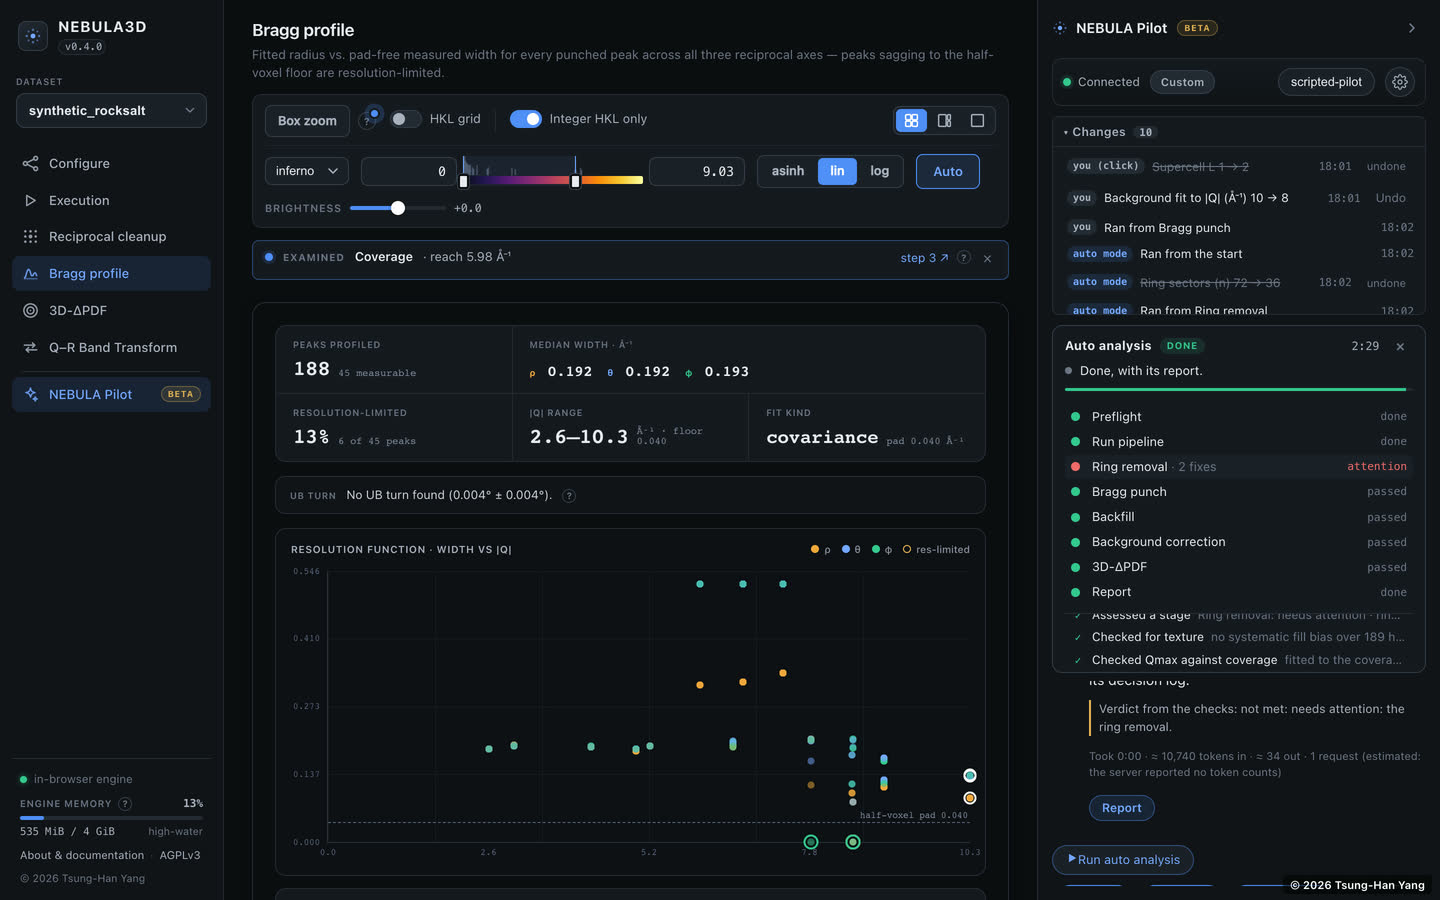
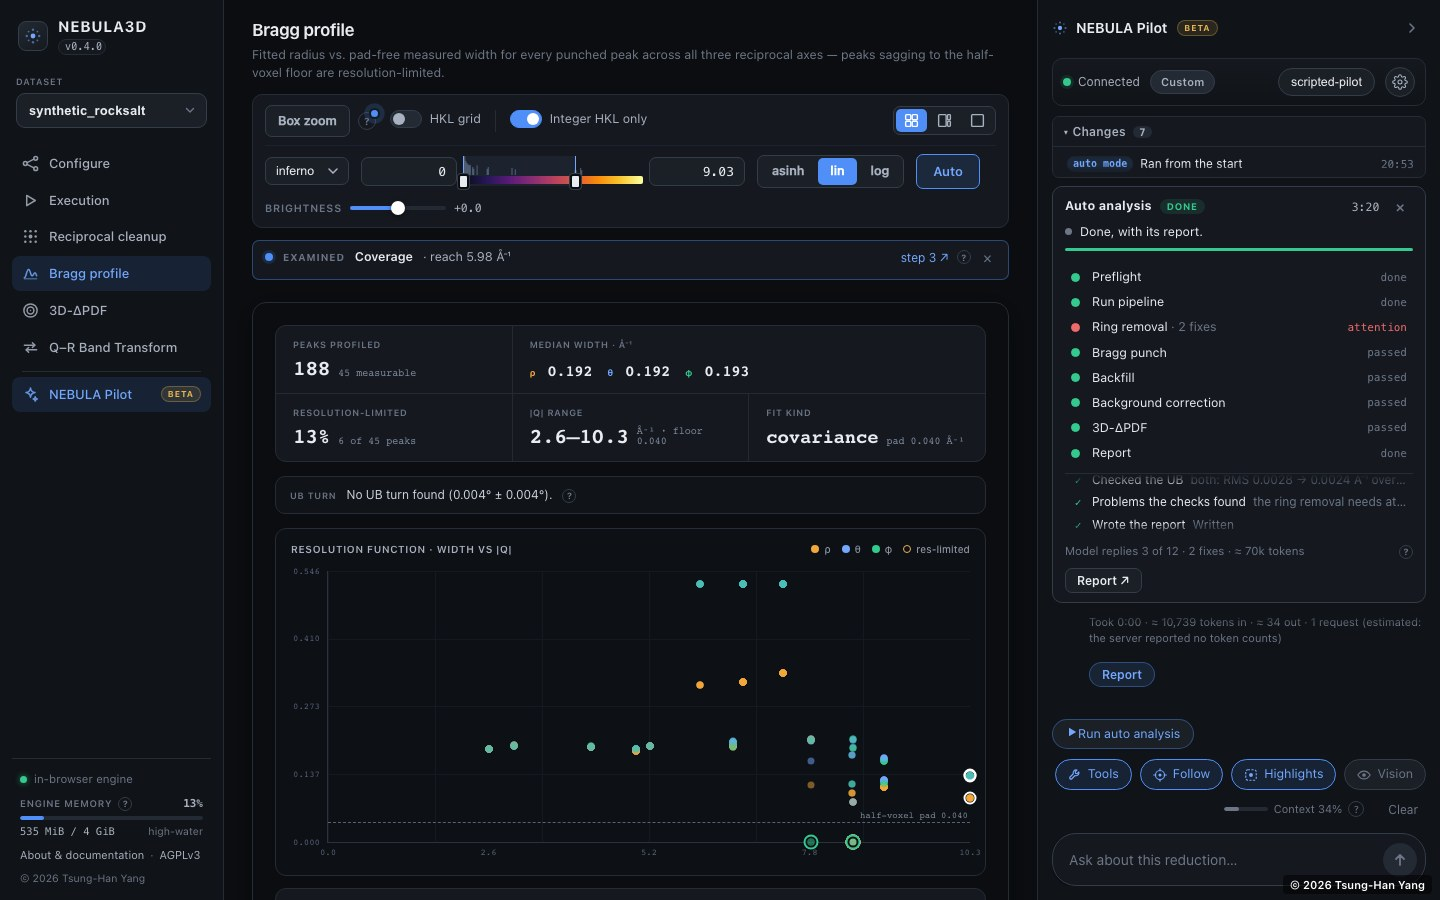
Retake the Pilot's auto and context-meter shots; the Auto head wraps
pilot-auto-done.jpg (1440 x 900, auto done: the plan and the activity log),
pilot-auto-phone.jpg (390 x 844, paused: the Now line, the last three steps,
Resume and Stop) and pilot-context-meter.jpg (the meter red at 91 % with one
action, nothing over the panel): the synthetic demo in the browser build with
the scripted model, the copyright line on each. The meter caption now says
91 %.

On a narrow panel (1280 px window) the Auto panel's Pause / Resume and Stop
go to a line of their own instead of out of view. docs/web.md describes the
panel's layout and the layout check.

diff --git a/web/src/index.css b/web/src/index.css
@@ -8289,8 +8289,9 @@ html.kb-open .ai-side {
 }
 .auto-head {
   display: flex;
+  flex-wrap: wrap; /* a narrow panel: Pause / Resume and Stop go to a line of their own, not out of view */
   align-items: center;
-  gap: 8px;
+  gap: 6px 8px;
 }
 .auto-title {
   white-space: nowrap;
@@ -8684,9 +8685,6 @@ html.kb-open .ai-side {
   overflow: visible;
   -webkit-mask-image: none;
   mask-image: none;
-}
-.ai-side[data-mode="sheet"] .auto-head {
-  flex-wrap: wrap;
 }
 .auto-refused {
   align-self: center;

diff --git a/docs/web.md b/docs/web.md
@@ -476,6 +476,27 @@ side by side on a wide card, and on a narrow one a stage's one-line summary
 moves under its title. The Configure preview answers to its card's width too:
 its three planes side by side from 1100 px, tabs below.
 
+The NEBULA Pilot panel is one screen and never scrolls as a whole: its title
+row, the connection row, then one room shared by the marked regions, the
+Changes list, the Auto panel and the transcript, and the dock (the chips, the
+context meter, the composer) pinned at its foot, whole at every height. In
+that room the lists give up their height first (down to their head and a
+row, their rows scrolling), then the Auto panel's plan and activity log,
+while the transcript keeps a floor of 120 px (96 px beside an auto run). In
+the bottom sheet the chips share one row that scrolls sideways, over the
+composer; a short sheet gives the connection row's line to the conversation
+while connected, an auto run's panel takes a short sheet's room, and the
+lowest sheet is the title row and the dock.
+`scripts/pilot_layout_check.mjs` walks the panel through its busy states on
+the synthetic demo with the scripted model (idle, marked regions, a reply
+with Apply cards and 10 changes, the context meter's details, an auto run
+running, paused, done and stopped) at 1440 × 900, 1280 × 800 and on a
+390 × 844 touch screen at the lowest, default and highest sheet, and checks
+by measurement that the dock is whole and on screen, that nothing covers the
+composer or the transcript, and that the boxes above the transcript do not
+overlap (`PW=<playwright-core> node scripts/pilot_layout_check.mjs <url>
+<out-dir> --model=<scripted model URL> [--engines=chromium,webkit] [--demo]`).
+
 ### Memory bar
 
 Under the API status at the foot of the sidebar (at the end of each page in

diff --git a/README.md b/README.md
@@ -125,8 +125,8 @@ chat box shows how full the model's window is, and from 70 % offers
 | --- | --- |
 | ![The Auto panel after a run: the plan with each stage's state and the activity log](docs/media/pilot-auto-done.jpg) | ![On a phone: the Auto panel paused, with its Now line and the last steps of the log](docs/media/pilot-auto-phone.jpg) |
 | **Auto mode, finished:** the plan, each stage's state and the activity log. | **On a phone:** the Now line and the last steps, with Resume and Stop. |
-| ![The context meter at 93 percent in red, offering Summarize and continue](docs/media/pilot-context-meter.jpg) | ![The auto run's report: quality checks per stage and the problems the checks found](docs/media/pilot-auto-report.jpg) |
-| **Context meter** at 93 %, offering *Summarize and continue*. | **The report:** each stage's check, and the problems the checks found, written by the app, not the model. |
+| ![The context meter at 91 percent in red, offering Summarize and continue](docs/media/pilot-context-meter.jpg) | ![The auto run's report: quality checks per stage and the problems the checks found](docs/media/pilot-auto-report.jpg) |
+| **Context meter** at 91 %, offering *Summarize and continue*. | **The report:** each stage's check, and the problems the checks found, written by the app, not the model. |
 
 All screenshots: the synthetic demo volume with a scripted model (a test
 server with no model behind it), from the demo QA of 2026-11-07
